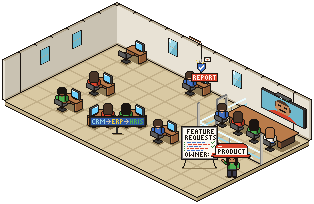
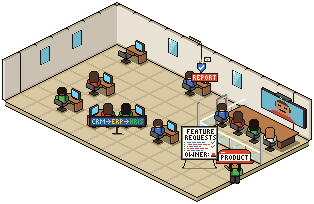
Move G7.3a's hat wearer off the whiteboard's OWNER line
Review: in the built state the hat covered the board's OWNER: line,
which is the payoff (the list finally has an owner). The wearer stands
8 px right and 2 px down, so the board reads OWNER: and its hat, with
the PRODUCT hat itself beside it (BANDS-AND-GAGS §220 G7.3a).

Changed region(s): [[0.6592, 0.6765, 0.8025, 0.9118]]

diff --git a/art/src/layout.py b/art/src/layout.py
@@ -392,7 +392,7 @@ def _band220() -> list:
            gag="G7.3a", part="board"),
         _f("engineer", WB[0] + 1.2, WB[1] - 0.6, frame="point-left", states=W,
            gag="G7.3a", part="board"),
-        _f("worker-hat", WB[0] + 1.6, WB[1] - 0.5, frame="e-left", states=B,
+        _f("worker-hat", WB[0] + 2.1, WB[1] - 0.2, frame="e-left", states=B,
            gag="G7.3a", part="board"),
     ]
     # more of the floor: a desk in the new bay
